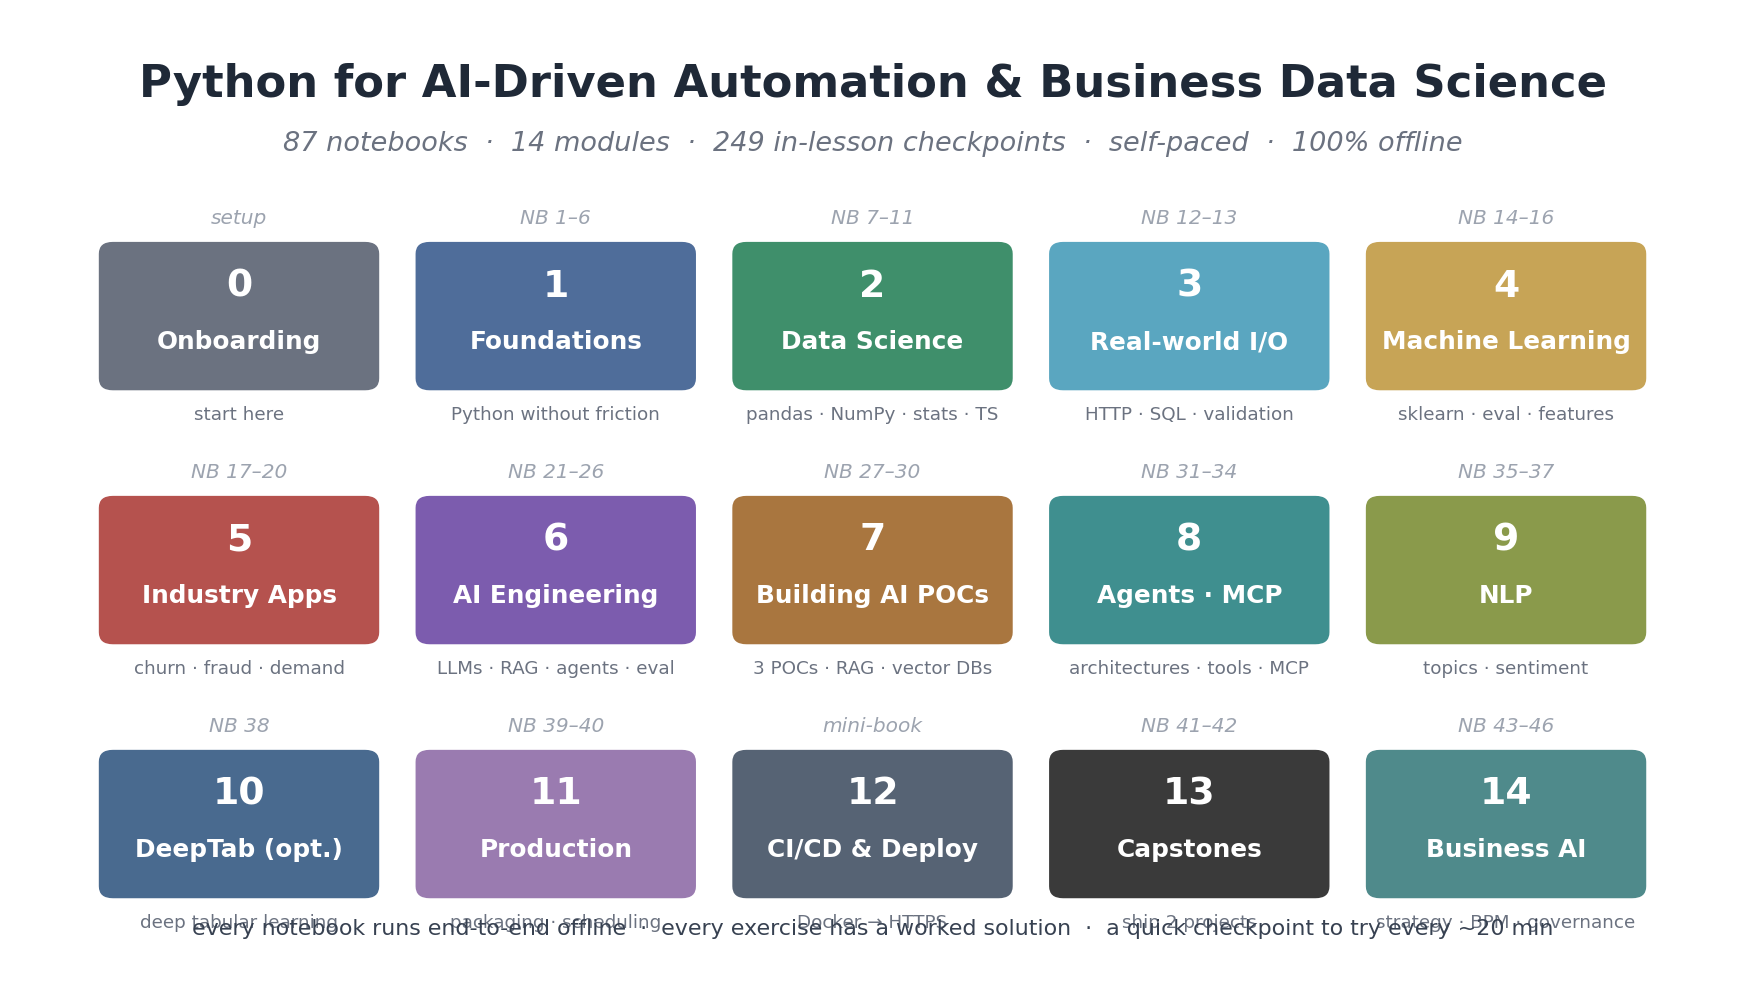
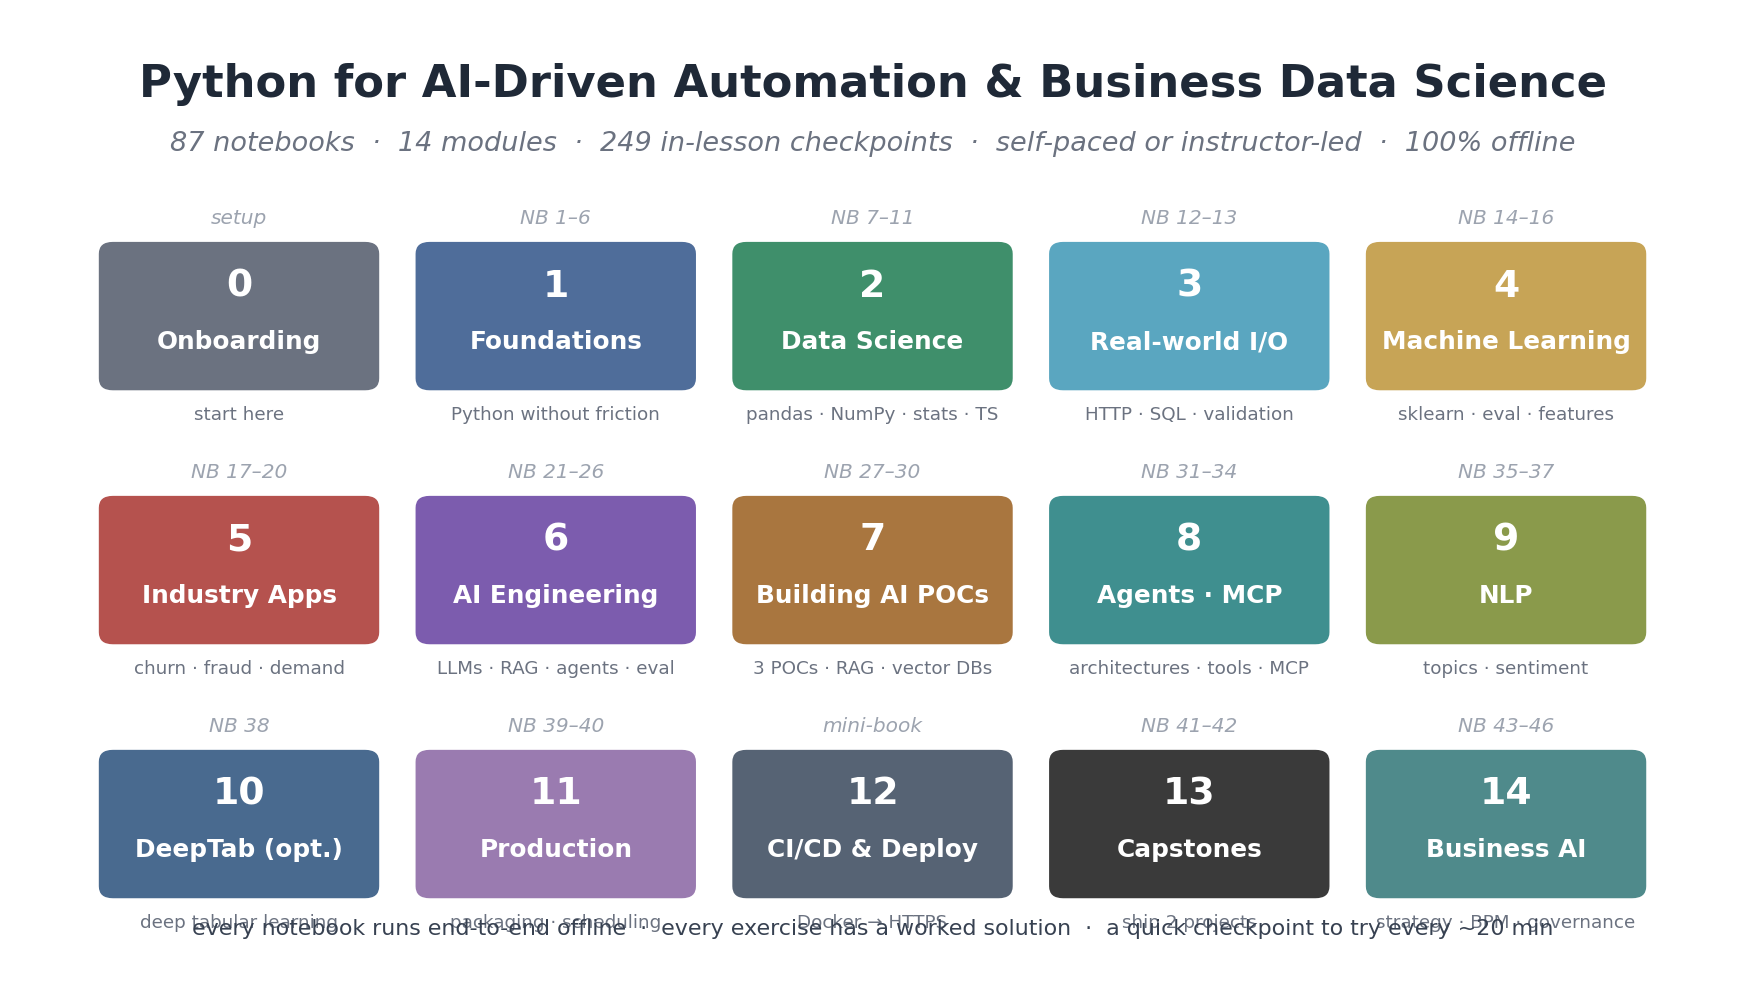
README polish: dual-audience framing, exercise/checkpoint clarity, CI badge, teaser comment
- Add a live Checkpoints CI badge and document the tester + CI workflow.
- Banner + tagline now say 'self-paced or instructor-led' (matches the live-teaching focus).
- Clarify '300+ end-of-lesson exercises' vs '249 in-lesson checkpoints'.
- Quickstart teaser notes that X, y are pre-loaded features/labels.

Changed region(s): [[0.0928, 0.1239, 0.8974, 0.1548]]

diff --git a/scripts/generate_roadmap_banner.py b/scripts/generate_roadmap_banner.py
@@ -49,7 +49,7 @@ ax.axis("off")
 ax.text(MIDX, 8.78, "Python for AI-Driven Automation & Business Data Science",
         ha="center", va="center", fontsize=19, fontweight="bold", color="#1f2937")
 ax.text(MIDX, 8.18,
-        "87 notebooks  ·  14 modules  ·  249 in-lesson checkpoints  ·  self-paced  ·  100% offline",
+        "87 notebooks  ·  14 modules  ·  249 in-lesson checkpoints  ·  self-paced or instructor-led  ·  100% offline",
         ha="center", va="center", fontsize=11.5, style="italic", color="#6b7280")
 
 for i, (num, name, nb, focus, colour) in enumerate(MODULES):

diff --git a/README.md b/README.md
@@ -5,7 +5,7 @@
 
 <p align="center">
   From your first line of Python to shipping a real AI-driven automation —<br>
-  a hands-on, self-paced curriculum across Python fluency, business data science,<br>
+  a hands-on curriculum (self-paced <em>or</em> instructor-led) across Python fluency, business data science,<br>
   machine learning, AI engineering, and production.
 </p>
 
@@ -16,10 +16,11 @@
   <a href="#-open-any-notebook-in-colab"><img alt="Open in Colab" src="https://img.shields.io/badge/Open%20in-Colab-f9ab00.svg?logo=googlecolab&logoColor=white"></a>
   <img alt="Runs 100% offline" src="https://img.shields.io/badge/Runs-100%25%20offline-2ea44f.svg">
   <img alt="249 checkpoints, kernel-tested" src="https://img.shields.io/badge/249%20checkpoints-kernel--tested-8a2be2.svg">
+  <a href="https://github.com/ChrisW09/Python-for-AI-Driven-Automation/actions/workflows/checkpoints.yml"><img alt="Checkpoints CI" src="https://github.com/ChrisW09/Python-for-AI-Driven-Automation/actions/workflows/checkpoints.yml/badge.svg"></a>
 </p>
 
 <p align="center">
-  <b>87 runnable notebooks · 14 modules · 300+ exercises · 249 in-lesson checkpoints · 100% offline</b>
+  <b>87 runnable notebooks · 14 modules · 300+ end-of-lesson exercises · 249 in-lesson checkpoints · 100% offline</b>
 </p>
 
 <p align="center">
@@ -77,6 +78,7 @@ from sklearn.preprocessing import StandardScaler
 from sklearn.linear_model import LogisticRegression
 from sklearn.model_selection import cross_val_score
 
+# X, y: a feature matrix and churn labels you've already loaded (see Module 4)
 churn_model = make_pipeline(StandardScaler(), LogisticRegression())
 auc = cross_val_score(churn_model, X, y, cv=5, scoring="roc_auc").mean()
 print(f"5-fold ROC-AUC: {auc:.3f}")
@@ -158,7 +160,7 @@ New here? [`00c_see_it_work.ipynb`](./00_onboarding/00c_see_it_work.ipynb) is a 
 | `quizzes/` | 10 short multiple-choice quizzes (Modules 1–8, 11 &amp; 14) |
 | `data/` | Sample CSVs the notebooks read (support_ops, api_log, customer_feedback) |
 | `slides/` | Course-overview deck + lecture decks (PDF + LaTeX source) |
-| `scripts/` | Helpers to run every notebook end-to-end or check NB-number references |
+| `scripts/` | Helpers — validate/execute every checkpoint (`test_checkpoints.py`), run every notebook end-to-end, regenerate the roadmap banner, check NB-number references |
 | `docs/` | Course-design notes (pedagogical review, module-descriptor coverage) |
 | `llm_providers.py` | Unified interface to OpenAI / Anthropic / Google / Ollama (+ offline `MockLLM`) |
 | `previous_versions/` | The legacy flat 19-notebook layout, archived |
@@ -183,7 +185,7 @@ Each checkpoint is a self-contained three-cell block:
 2. **`# ✍ Your turn`** — a scaffolded starter cell to fill in.
 3. **✅ Solution** — a collapsible answer with a one-line explanation.
 
-There are **249 of these across the course** (3–4 per core lesson, 3 per fast-track lesson), and every code solution has been **executed in a fresh Jupyter kernel to verify it actually runs** (the few file-content solutions — `__init__.py`, pytest, `pyproject.toml` — are validated by inspection). They run 100% offline like everything else — no API key or network needed. Self-paced learners solve each one as they reach it; instructors use them as the built-in "pause and try" beats of a class. In the conceptual Business-AI lessons (43–46) the middle cell is a short written reflection/decision task instead of code.
+There are **249 of these across the course** (3–4 per core lesson, 3 per fast-track lesson), and every code solution has been **executed in a fresh Jupyter kernel to verify it actually runs** (the few file-content solutions — `__init__.py`, pytest, `pyproject.toml` — are validated by inspection). A [CI workflow](./.github/workflows/checkpoints.yml) re-checks the structure and syntax of all 249 on every push; run the full kernel test yourself with `python scripts/test_checkpoints.py --exec`. They run 100% offline like everything else — no API key or network needed. Self-paced learners solve each one as they reach it; instructors use them as the built-in "pause and try" beats of a class. In the conceptual Business-AI lessons (43–46) the middle cell is a short written reflection/decision task instead of code.
 
 > 🧑🏫 **Teaching live?** Lecture for ~20 minutes, then jump to the next ✋ checkpoint and give the room ~2 minutes to try it before you reveal the solution. With 3–4 per lesson, a 90-minute class gets several natural interactive breaks — no prep required.
 
